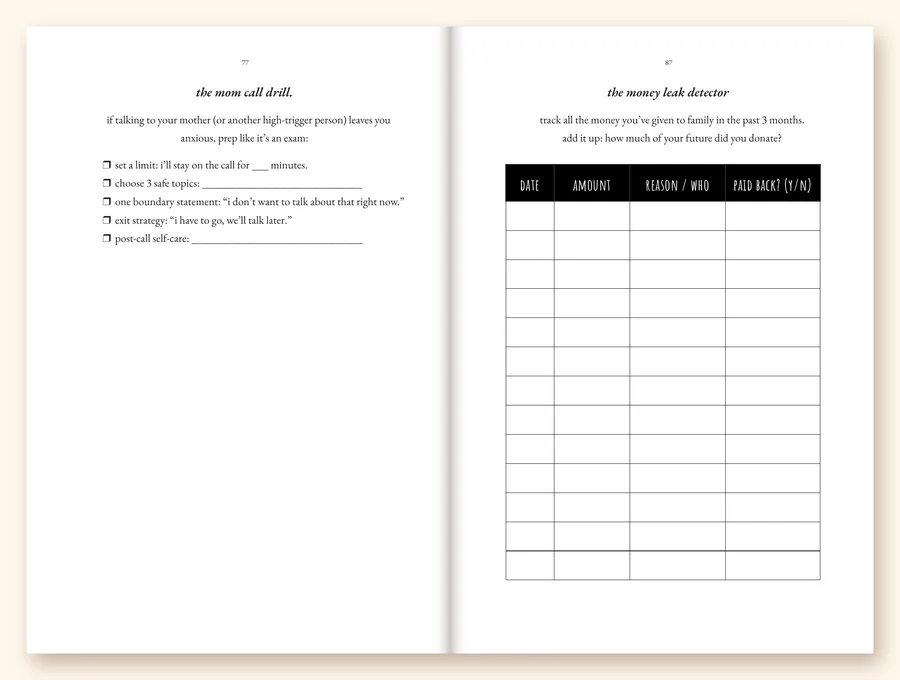
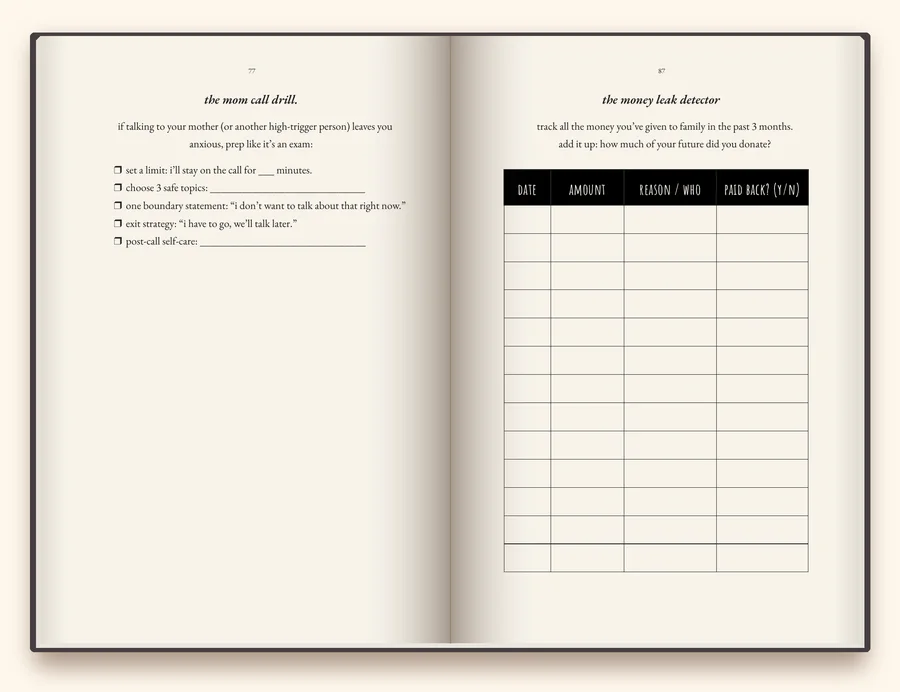
LP: real book pages as an open hardcover (cream paper, spine shading, cover edge), flipping every 2s, moved under the buying options before the FAQ
Claude-Session: https://claude.ai/code/session_01LL1mB2P2VRvoL1n8mHXFs8

diff --git a/index.html b/index.html
@@ -137,12 +137,12 @@ fbq('track','PageView',{},{eventID:pageViewEventId});
   .stats b{display:block;font-family:var(--serif);font-size:30px;line-height:1.1;font-weight:600;color:var(--accent);font-variant-numeric:lining-nums}
   .stats span{display:block;font-size:14px;line-height:1.35;color:var(--muted);margin-top:4px}
   /* real pages from the book: three open spreads that cross-fade in one fixed frame (nothing around it moves) */
-  .peek{position:relative;max-width:560px;margin:18px auto 24px;aspect-ratio:900/680}
-  .peek img{position:absolute;inset:0;width:100%;height:100%;opacity:0;animation:peek 12s infinite}
-  .peek img:nth-of-type(1){opacity:1;animation-delay:0s}.peek img:nth-of-type(2){animation-delay:4s}.peek img:nth-of-type(3){animation-delay:8s}
-  @keyframes peek{0%{opacity:0}4%{opacity:1}33%{opacity:1}37%{opacity:0}100%{opacity:0}}
+  .peek{position:relative;max-width:560px;margin:28px auto 8px;aspect-ratio:900/692}
+  .peek img{position:absolute;inset:0;width:100%;height:100%;opacity:0;animation:peek 6s infinite}
+  .peek img:nth-of-type(1){opacity:1;animation-delay:0s}.peek img:nth-of-type(2){animation-delay:2s}.peek img:nth-of-type(3){animation-delay:4s}
+  @keyframes peek{0%{opacity:0}6%{opacity:1}33%{opacity:1}39%{opacity:0}100%{opacity:0}}
   .peek img:nth-of-type(1){animation-name:peek1}
-  @keyframes peek1{0%{opacity:1}33%{opacity:1}37%{opacity:0}96%{opacity:0}100%{opacity:1}}
+  @keyframes peek1{0%{opacity:1}33%{opacity:1}39%{opacity:0}94%{opacity:0}100%{opacity:1}}
   @media (prefers-reduced-motion:reduce){.peek img{animation:none}}
   /* trust row under the offer button */
   .trust{display:flex;justify-content:center;flex-wrap:wrap;gap:6px 16px;margin:12px 0 0;font-size:14px;color:var(--muted)}
@@ -517,11 +517,6 @@ fbq('track','PageView',{},{eventID:pageViewEventId});
 
   <p>plus the exercises people message me about the most: the mom call drill (a real script for high-trigger calls: time limit, safe topics, exit line, after-care) and the permission slip, where you officially give yourself back the childhood you never got.</p>
 
-  <div class="peek" role="img" aria-label="real pages from the workbook: the mom call drill, the money leak detector, the rage timeline, the anger translator, the childhood split screen and the permission slip">
-    <img src="images/inside-mom-call-drill.webp" alt="" width="900" height="680" decoding="async">
-    <img src="images/inside-rage-timeline.webp" alt="" width="900" height="680" loading="lazy" decoding="async">
-    <img src="images/inside-childhood-split-screen.webp" alt="" width="900" height="680" loading="lazy" decoding="async">
-  </div>
 
   <!-- ===== BEFORE / AFTER ===== -->
   <div class="ba">
@@ -615,6 +610,13 @@ fbq('track','PageView',{},{eventID:pageViewEventId});
 
     <p class="excl"><svg width="15" height="15" viewBox="0 0 24 24" fill="none" stroke="currentColor" stroke-width="2" stroke-linecap="round" stroke-linejoin="round" aria-hidden="true"><path d="M4 19.5V5a2 2 0 0 1 2-2h13v16H6a2 2 0 0 0-2 2z"/><path d="M8 7h7"/></svg>sold only here. not on amazon.</p>
   </section>
+
+  <!-- ===== REAL PAGES (right under the buying options) ===== -->
+  <div class="peek" role="img" aria-label="real pages from the workbook: the mom call drill, the money leak detector, the rage timeline, the anger translator, the childhood split screen and the permission slip">
+    <img src="images/inside-mom-call-drill.webp" alt="" width="900" height="692" loading="lazy" decoding="async">
+    <img src="images/inside-rage-timeline.webp" alt="" width="900" height="692" loading="lazy" decoding="async">
+    <img src="images/inside-childhood-split-screen.webp" alt="" width="900" height="692" loading="lazy" decoding="async">
+  </div>
 
   <!-- ===== FAQ ===== -->
   <h2>frequently asked questions</h2>
